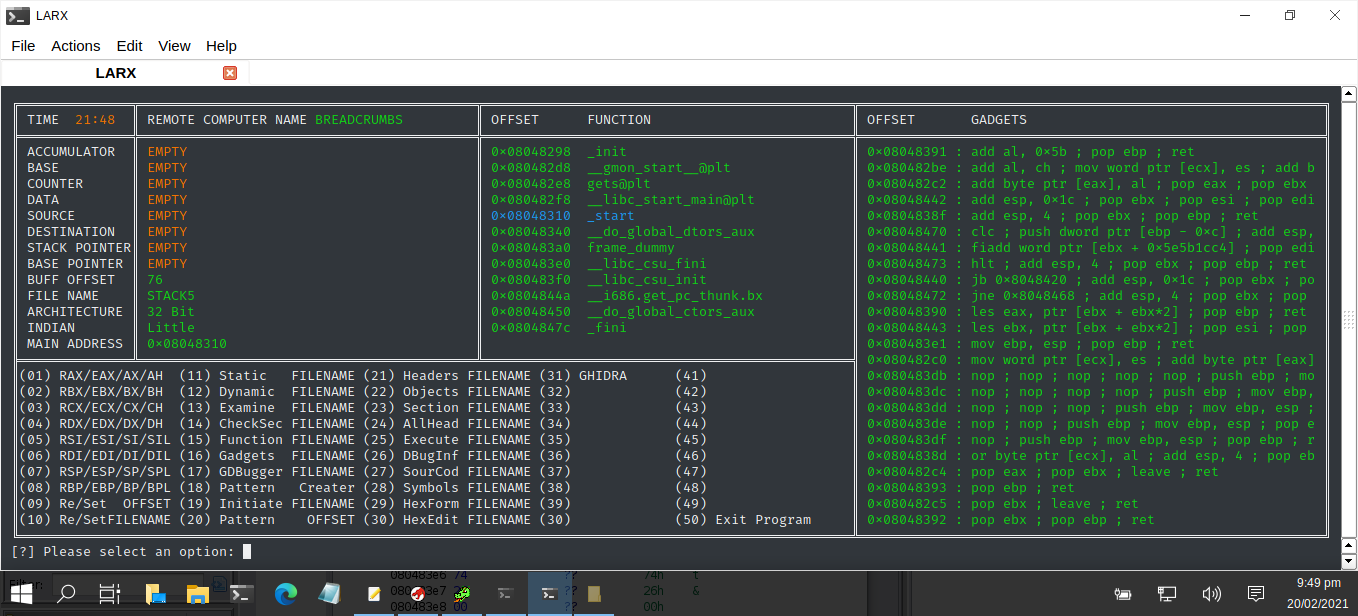
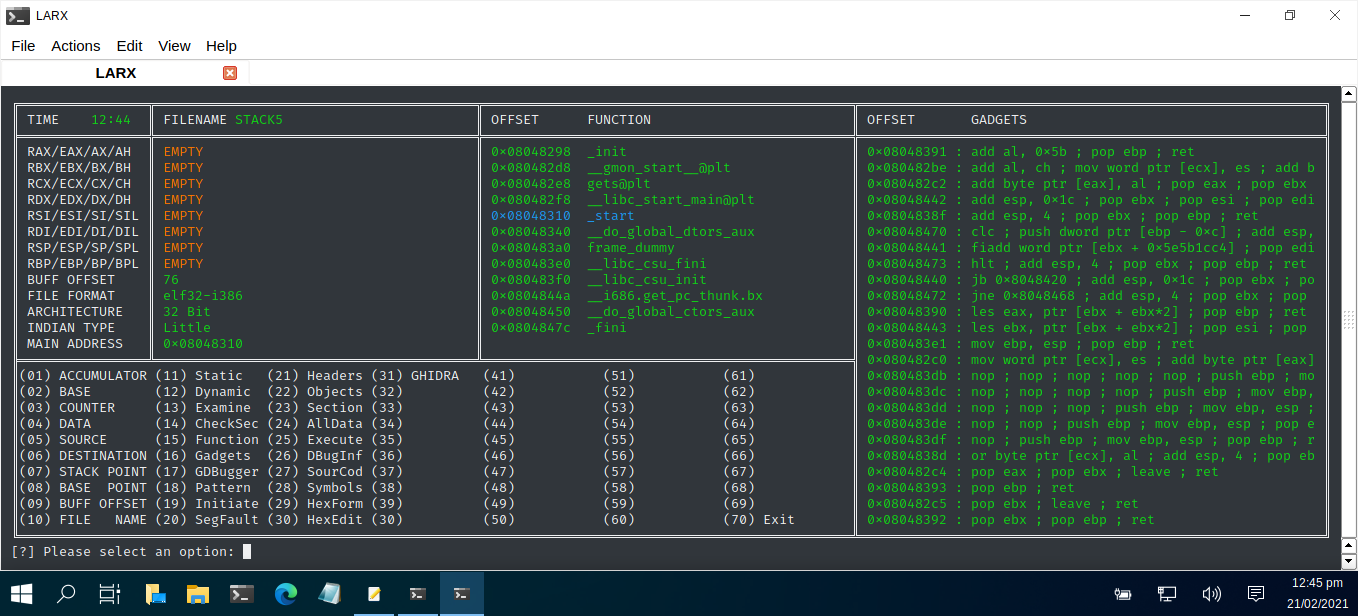
LARX

Changed region(s): [[0.0, 0.1851, 0.4639, 0.8636], [0.0, 0.9253, 1.0, 1.0], [0.4948, 0.586, 0.5876, 0.8636]]

diff --git a/larx.py b/larx.py
@@ -185,20 +185,17 @@ def clearClutter():
    return
 
 def dispMenu():
-   print('\u2554' + ('\u2550')*14 + '\u2566' + ('\u2550')*42 + '\u2566' + ('\u2550')*46 + '\u2566' + ('\u2550')*58 + '\u2557')
-   print('\u2551' + " TIME ", end =' ')   
-   if SKEW == 0:
-      print(colored(LTM[:6],colour7), end=' ')
-   else:
-      print(colored(LTM[:6],colour6), end=' ')      
-   print('\u2551' + " " + colored("REMOTE COMPUTER NAME",colour5), end=' ')   
+   print('\u2554' + ('\u2550')*16 + '\u2566' + ('\u2550')*40 + '\u2566' + ('\u2550')*46 + '\u2566' + ('\u2550')*58 + '\u2557')
+   print('\u2551' + " TIME   ", end =' ')
+   print(colored(LTM[:6],colour6), end=' ')
+   print('\u2551' + " " + colored("FILENAME",colour5), end=' ')   
    if COM[:7] == "UNKNOWN":
-      print(colored(COM.upper(),colour7), end=' ')
+      print(colored(FIL.upper(),colour7), end=' ')
    else:
-      print(colored(COM.upper(),colour6), end=' ')      
+      print(colored(FIL.upper(),colour6), end=' ')      
    print('\u2551' + (" ")*1 + colored("OFFSET",colour5) + (" ")*6 + colored("FUNCTION",colour5) + (" ")*25 + '\u2551' + (" ")*1 + colored("OFFSET       GADGETS",colour5) + (" ")*37 + '\u2551') 
-   print('\u2560' + ('\u2550')*14 + '\u256C' + ('\u2550')*42 + '\u256C' + ('\u2550')*25 + '\u2550' + ('\u2550')*20 + '\u256C' + ('\u2550')*58 + '\u2563')   
-   print('\u2551' + " ACCUMULATOR  " + '\u2551', end=' ')
+   print('\u2560' + ('\u2550')*16 + '\u256C' + ('\u2550')*40+ '\u256C' + ('\u2550')*25 + '\u2550' + ('\u2550')*20 + '\u256C' + ('\u2550')*58 + '\u2563')   
+   print('\u2551' + " RAX/EAX/AX/AH  " + '\u2551', end=' ')
    if RAX[:5] == "EMPTY":
       print(colored(RAX[:COL1],colour7), end=' ')
    else:
@@ -212,7 +209,7 @@ def dispMenu():
    print(colored(GADD[0],colour6), end=' ')
    print('\u2551')      
    
-   print('\u2551' + " BASE         " + '\u2551', end=' ')
+   print('\u2551' + " RBX/EBX/BX/BH  " + '\u2551', end=' ')
    if RBX[:5] == "EMPTY":
       print(colored(RBX[:COL1],colour7), end=' ')
    else:
@@ -225,7 +222,7 @@ def dispMenu():
    print('\u2551', end=' ')   
    print(colored(GADD[1],colour6), end=' ')
    print('\u2551')   
-   print('\u2551' + " COUNTER      " + '\u2551', end=' ')
+   print('\u2551' + " RCX/ECX/CX/CH  " + '\u2551', end=' ')
    if RCX[:5] == "EMPTY":
       print(colored(RCX[:COL1],colour7), end=' ')
    else:
@@ -238,7 +235,7 @@ def dispMenu():
    print('\u2551', end=' ')   
    print(colored(GADD[2],colour6), end=' ')
    print('\u2551')   
-   print('\u2551' + " DATA         " + '\u2551', end=' ')
+   print('\u2551' + " RDX/EDX/DX/DH  " + '\u2551', end=' ')
    if RDX[:5] == "EMPTY":
       print(colored(RDX[:COL1],colour7), end=' ')
    else:
@@ -252,7 +249,7 @@ def dispMenu():
    print('\u2551', end=' ')   
    print(colored(GADD[3],colour6), end=' ')
    print('\u2551')   
-   print('\u2551' + " SOURCE       " + '\u2551', end=' ')
+   print('\u2551' + " RSI/ESI/SI/SIL " + '\u2551', end=' ')
    if RSI[:5] == "EMPTY":
       print(colored(RSI[:COL1],colour7), end=' ')
    else:
@@ -265,7 +262,7 @@ def dispMenu():
    print('\u2551', end=' ')   
    print(colored(GADD[4],colour6), end=' ')
    print('\u2551')   
-   print('\u2551' + " DESTINATION  " + '\u2551', end=' ')
+   print('\u2551' + " RDI/EDI/DI/DIL " + '\u2551', end=' ')
    if RDI[:5] == "EMPTY":
       print(colored(RDI[:COL1],colour7), end=' ')
    else:
@@ -278,7 +275,7 @@ def dispMenu():
    print('\u2551', end=' ')
    print(colored(GADD[5],colour6), end=' ')
    print('\u2551')   
-   print('\u2551' + " STACK POINTER" + '\u2551', end=' ')
+   print('\u2551' + " RSP/ESP/SP/SPL " + '\u2551', end=' ')
    if RSP[:5] == "EMPTY":
       print(colored(RSP[:COL1],colour7), end=' ')
    else:
@@ -291,7 +288,7 @@ def dispMenu():
    print('\u2551', end=' ')   
    print(colored(GADD[6],colour6), end=' ')
    print('\u2551')   
-   print('\u2551' + " BASE POINTER " + '\u2551', end=' ')
+   print('\u2551' + " RBP/EBP/BP/BPL " + '\u2551', end=' ')
    if RBP[:5] == "EMPTY":
       print(colored(RBP[:COL1],colour7), end=' ')
    else:
@@ -304,7 +301,7 @@ def dispMenu():
    print('\u2551', end=' ')   
    print(colored(GADD[7],colour6), end=' ')
    print('\u2551')   
-   print('\u2551' + " BUFF OFFSET  " + '\u2551', end=' ')
+   print('\u2551' + " BUFF OFFSET    " + '\u2551', end=' ')
    if OFF[:5] == "EMPTY":
       print(colored(OFF[:COL1],colour7), end=' ')
    else:
@@ -317,11 +314,11 @@ def dispMenu():
    print('\u2551', end=' ')   
    print(colored(GADD[8],colour6), end=' ')
    print('\u2551')   
-   print('\u2551' + " FILE NAME    " + '\u2551', end=' ')
-   if FIL[:5].upper() == "EMPTY":
-      print(colored(FIL.upper()[:COL1],colour7), end=' ')
+   print('\u2551' + " FILE FORMAT    " + '\u2551', end=' ')
+   if COM[5].upper() == "EMPTY":
+      print(colored(COM,colour7), end=' ')
    else:
-      print(colored(FIL.upper()[:COL1],colour6), end=' ')
+      print(colored(COM,colour6), end=' ')
    print('\u2551', end=' ')   
    if SRT.rstrip(" ") in ADDR[9]:
       print(colored(ADDR[9],colour3), end=' ')
@@ -330,7 +327,7 @@ def dispMenu():
    print('\u2551', end=' ')   
    print(colored(GADD[9],colour6), end=' ')
    print('\u2551')   
-   print('\u2551' + " ARCHITECTURE " + '\u2551', end=' ')
+   print('\u2551' + " ARCHITECTURE   " + '\u2551', end=' ')
    if ARC[:5] == "EMPTY":
       print(colored(ARC[:COL1],colour7), end=' ')
    else:
@@ -343,7 +340,7 @@ def dispMenu():
    print('\u2551', end=' ')   
    print(colored(GADD[10],colour6), end=' ')
    print('\u2551')    
-   print('\u2551' + " INDIAN       " + '\u2551', end=' ')
+   print('\u2551' + " INDIAN TYPE    " + '\u2551', end=' ')
    if IND[:5] == "EMPTY":
       print(colored(IND[:COL1],colour7), end=' ')
    else:
@@ -357,7 +354,7 @@ def dispMenu():
    print(colored(GADD[11],colour6), end=' ')
    print('\u2551') 
    
-   print('\u2551' + " MAIN ADDRESS " + '\u2551', end=' ')
+   print('\u2551' + " MAIN ADDRESS   " + '\u2551', end=' ')
    if SRT[:5] == "EMPTY":
       print(colored(SRT[:COL1],colour7), end=' ')
    else:
@@ -370,20 +367,20 @@ def dispMenu():
    print('\u2551', end=' ')   
    print(colored(GADD[12],colour6), end=' ')
    print('\u2551')      
-   print('\u2560' + ('\u2550')*14 + '\u2569' + ('\u2550')*42 + '\u2569' + ('\u2550')*25 + '\u2550' + ('\u2550')*20 + '\u2563', end=' '); print(colored(GADD[13],colour6), end=' '); print('\u2551')
+   print('\u2560' + ('\u2550')*16 + '\u2569' + ('\u2550')*40 + '\u2569' + ('\u2550')*25 + '\u2550' + ('\u2550')*20 + '\u2563', end=' '); print(colored(GADD[13],colour6), end=' '); print('\u2551')
    return
    
 def options():
-   print('\u2551' + "(01) RAX/EAX/AX/AH  (11) Static   FILENAME (21) Headers FILENAME (31) GHIDRA      (41)                  " + '\u2551', end=' '); print(colored(GADD[14],colour6), end=' '); print('\u2551')
-   print('\u2551' + "(02) RBX/EBX/BX/BH  (12) Dynamic  FILENAME (22) Objects FILENAME (32)             (42)                  " + '\u2551', end=' '); print(colored(GADD[15],colour6), end=' '); print('\u2551')
-   print('\u2551' + "(03) RCX/ECX/CX/CH  (13) Examine  FILENAME (23) Section FILENAME (33)             (43)                  " + '\u2551', end=' '); print(colored(GADD[16],colour6), end=' '); print('\u2551')  
-   print('\u2551' + "(04) RDX/EDX/DX/DH  (14) CheckSec FILENAME (24) AllHead FILENAME (34)             (44)                  " + '\u2551', end=' '); print(colored(GADD[17],colour6), end=' '); print('\u2551')
-   print('\u2551' + "(05) RSI/ESI/SI/SIL (15) Function FILENAME (25) Execute FILENAME (35)             (45)                  " + '\u2551', end=' '); print(colored(GADD[18],colour6), end=' '); print('\u2551')
-   print('\u2551' + "(06) RDI/EDI/DI/DIL (16) Gadgets  FILENAME (26) DBugInf FILENAME (36)             (46)                  " + '\u2551', end=' '); print(colored(GADD[19],colour6), end=' '); print('\u2551')
-   print('\u2551' + "(07) RSP/ESP/SP/SPL (17) GDBugger FILENAME (27) SourCod FILENAME (37)             (47)                  " + '\u2551', end=' '); print(colored(GADD[20],colour6), end=' '); print('\u2551')
-   print('\u2551' + "(08) RBP/EBP/BP/BPL (18) Pattern   Creater (28) Symbols FILENAME (38)             (48)                  " + '\u2551', end=' '); print(colored(GADD[21],colour6), end=' '); print('\u2551')
-   print('\u2551' + "(09) Re/Set  OFFSET (19) Initiate FILENAME (29) HexForm FILENAME (39)             (49)                  " + '\u2551', end=' '); print(colored(GADD[22],colour6), end=' '); print('\u2551')
-   print('\u2551' + "(10) Re/SetFILENAME (20) Pattern    OFFSET (30) HexEdit FILENAME (30)             (50) Exit Program     " + '\u2551', end=' '); print(colored(GADD[23],colour6), end=' '); print('\u2551')
+   print('\u2551' + "(01) ACCUMULATOR (11) Static   (21) Headers (31) GHIDRA   (41)           (51)           (61)            " + '\u2551', end=' '); print(colored(GADD[14],colour6), end=' '); print('\u2551')
+   print('\u2551' + "(02) BASE        (12) Dynamic  (22) Objects (32)          (42)           (52)           (62)            " + '\u2551', end=' '); print(colored(GADD[15],colour6), end=' '); print('\u2551')
+   print('\u2551' + "(03) COUNTER     (13) Examine  (23) Section (33)          (43)           (53)           (63)            " + '\u2551', end=' '); print(colored(GADD[16],colour6), end=' '); print('\u2551')  
+   print('\u2551' + "(04) DATA        (14) CheckSec (24) AllData (34)          (44)           (54)           (64)            " + '\u2551', end=' '); print(colored(GADD[17],colour6), end=' '); print('\u2551')
+   print('\u2551' + "(05) SOURCE      (15) Function (25) Execute (35)          (45)           (55)           (65)            " + '\u2551', end=' '); print(colored(GADD[18],colour6), end=' '); print('\u2551')
+   print('\u2551' + "(06) DESTINATION (16) Gadgets  (26) DBugInf (36)          (46)           (56)           (66)            " + '\u2551', end=' '); print(colored(GADD[19],colour6), end=' '); print('\u2551')
+   print('\u2551' + "(07) STACK POINT (17) GDBugger (27) SourCod (37)          (47)           (57)           (67)            " + '\u2551', end=' '); print(colored(GADD[20],colour6), end=' '); print('\u2551')
+   print('\u2551' + "(08) BASE  POINT (18) Pattern  (28) Symbols (38)          (48)           (58)           (68)            " + '\u2551', end=' '); print(colored(GADD[21],colour6), end=' '); print('\u2551')
+   print('\u2551' + "(09) BUFF OFFSET (19) Initiate (29) HexForm (39)          (49)           (59)           (69)            " + '\u2551', end=' '); print(colored(GADD[22],colour6), end=' '); print('\u2551')
+   print('\u2551' + "(10) FILE   NAME (20) SegFault (30) HexEdit (30)          (50)           (60)           (70) Exit       " + '\u2551', end=' '); print(colored(GADD[23],colour6), end=' '); print('\u2551')
    print('\u255A' + ('\u2550')*104 + '\u2569' +  ('\u2550')*58 + '\u255D') #colored("VALUE",colour5)
    return
 
@@ -522,8 +519,8 @@ else:
    print("[+] File tokens.txt already exists...")   
    
 SKEW = 0                                # TIME-SKEW SWITCH
-COL0 = 19				# MAX LEN COMPUTER NAME
-COL1 = 40                               # MAX LEN SESSION DATA
+COL0 = 17+12				# MAX LEN COMPUTER NAME
+COL1 = 38                               # MAX LEN SESSION DATA
 COL2 = 44                               # MAX LEN ADDRE NAME
 COL3 = 23+33                            # MAX LEN GADD NAME
 #COL4 = 0                                # MAX LEN NTLM USE1
@@ -574,7 +571,7 @@ SRT = linecache.getline("ascii.tmp", 14).rstrip("\n")
 
 
 RAX = spacePadding(RAX, COL1)
-COM = spacePadding(COM, COL0)
+COM = spacePadding(COM, COL1)
 RBX = spacePadding(RBX, COL1)
 RCX = spacePadding(RCX, COL1)
 RDX = spacePadding(RDX, COL1)
@@ -585,7 +582,7 @@ RBP = spacePadding(RBP, COL1)
 OFF = spacePadding(OFF, COL1)
 IND = spacePadding(IND, COL1)
 ARC = spacePadding(ARC, COL1)
-FIL = spacePadding(FIL, COL1)
+FIL = spacePadding(FIL, COL0)
 SRT = spacePadding(SRT, COL1)
 
 # -------------------------------------------------------------------------------------
@@ -814,7 +811,7 @@ while True:
          BAK = FIL
          FIL = input("[?] Please enter filename: ")
          if FIL != "":
-            FIL = spacePadding(FIL,COL1)
+            FIL = spacePadding(FIL,COL0)
          else:
             FIL = BAK
       prompt()  
@@ -1048,7 +1045,10 @@ while True:
          count = lineCount("headers.tmp")
          SRT = linecache.getline("headers.tmp", count).rstrip("\n")
          SRT = SRT.split(" ")[-1]
-         SRT = spacePadding(SRT, COL2)         
+         SRT = spacePadding(SRT, COL1)   
+         COM = linecache.getline("headers.tmp", 1).rstrip("\n")      
+         COM = COM.split(" ")[-1]
+         COM = spacePadding(COM, COL1)
       prompt()   
    
 # ------------------------------------------------------------------------------------- 
@@ -1227,7 +1227,7 @@ while True:
 # Modified: N/A
 # -------------------------------------------------------------------------------------
 
-   if selection == '90':        
+   if selection == '70':        
       saveParams()
       command("rm *.tmp")      
       connection.close()

diff --git a/README.md b/README.md
@@ -29,7 +29,7 @@ A comprehensive, yet sleek and portable python script file that enables cyber se
 |------     |-------         | -------                          | ----                |  ----        |
 | python3   | install.py     | 009d381735ec64b091e1df8e59678769 | Install Program     | TREADSTONE   |
 | python3   | rogue-agent.py | e5f70710984f305cffa0b9961fbfa4f3 | Command Centre      | TREADSTONE   |
-| python3   | larx.py        | 11de6f5efec77d9d92bf02a23dab6e4a | Binary Exploitation | LARX| 
+| python3   | larx.py        | 6551de3c0bc5d37914acb5d2a9627026 | Binary Exploitation | LARX| 
 | SQLite3   | RA.db          | 22e5d7a88e7f517a713d21da5d57a41c | Program Database    | TREADSTONE   |
 
        
